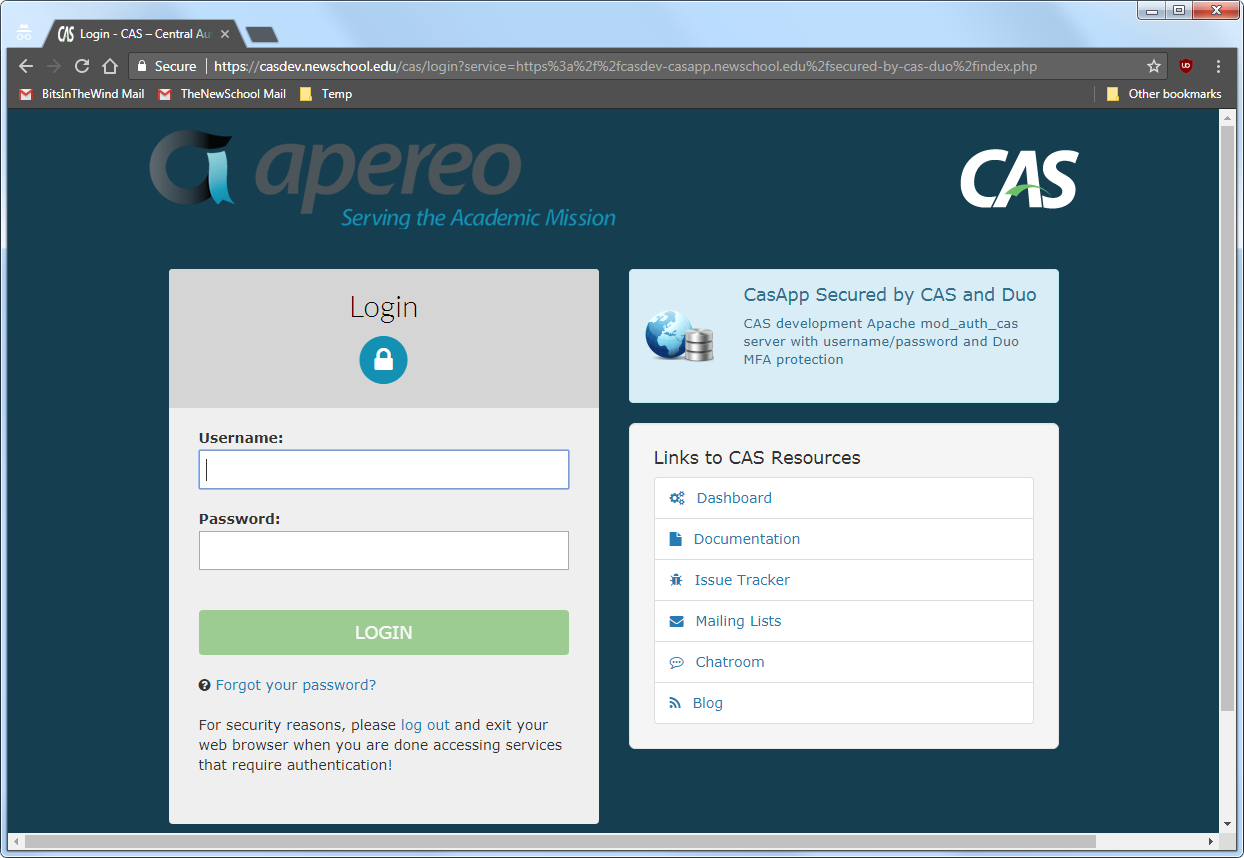
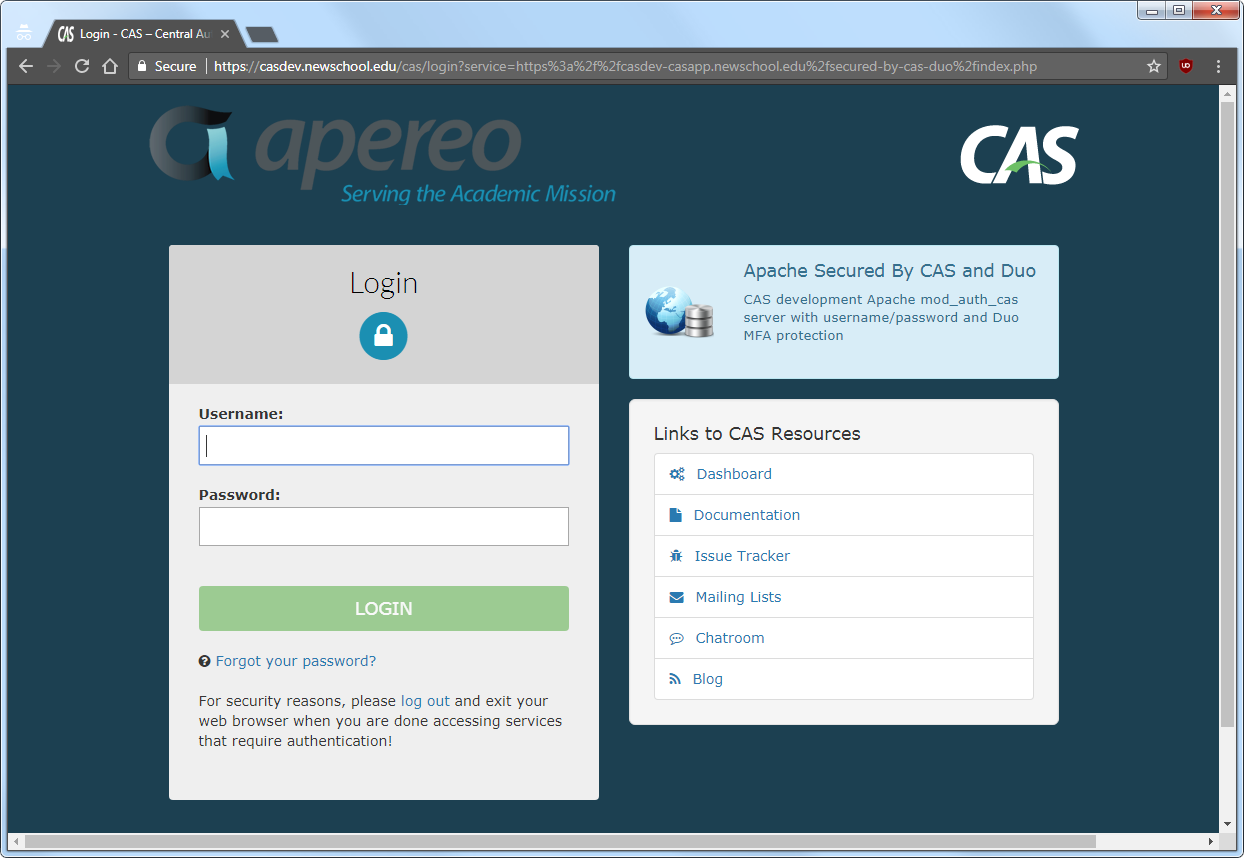
Updated to reflect using the recommended naming scheme for JSON service definition files.

Changed region(s): [[0.0, 0.0909, 1.0, 0.8788], [0.1222, 0.6667, 0.4887, 0.9697], [0.9775, 0.8182, 1.0, 0.8485]]

diff --git a/pages/building/server/ldap/resolution-release/update-the-service-registry.md b/pages/building/server/ldap/resolution-release/update-the-service-registry.md
@@ -1,6 +1,6 @@
 ---
 title: Update the service registry
-last_updated: September 1, 2017
+last_updated: September 26, 2017
 sidebar: main_sidebar
 permalink: building_server_ldap_resolution-release_update-the-service-registry.html
 summary:
@@ -39,14 +39,14 @@ The syntax for defining the above policies is defined in the CAS 5 *Attribute Re
 
 ## Create a service definition for the CAS client
 
-When we initially [created the service registry][building_server_service-registry_configure-the-service-registry], we created a wildcard service definition that would match any service. Now however, it makes sense to create a specific definition for our CAS client, and use that definition to release attributes to the client. Create a file called `casapp-cas-only.json` in the `etc/cas/services` directory on the master build server (***casdev-master***) with the following contents:
+When we initially [created the service registry][building_server_service-registry_configure-the-service-registry], we created a wildcard service definition that would match any service. Now however, it makes sense to create a specific definition for our CAS client, and use that definition to release attributes to the client. Create a file in the `etc/cas/services` directory on the master build server (***casdev-master***) with the following contents:
 
 ```json
 {
   "@class" : "org.apereo.cas.services.RegexRegisteredService",
   "serviceId" : "^https://casdev-casapp.newschool.edu/secured-by-cas(\\z|/.*)",
+  "name" : "Apache Secured By CAS",
   "id" : 201700830155400,
-  "name" : "CasApp Secured by CAS",
   "description" : "CAS development Apache mod_auth_cas server with username/password protection",
   "attributeReleasePolicy" : {
     "@class" : "org.apereo.cas.services.ReturnAllAttributeReleasePolicy"
@@ -54,6 +54,8 @@ When we initially [created the service registry][building_server_service-registr
   "evaluationOrder" : 1100
 }
 ```
+
+Following the naming convention introduced [earlier][building_server_service-registry_configure-the-service-registry], the name of this file should be `ApacheSecuredByCAS-201700830155400.json`. (Your `id`, and therefore that part of the filename, should use the current value for `YYYYMMDDhhmmss`.)
 
 This service definition uses a `serviceId` regular expression that matches only the URL for the `secured-by-cas` directory on the ***casdev-casapp*** server. The `(\\z|/.*)` syntax at the end matches either the empty string (`\\z`) or a slash ('/') followed by anything (`/.*`), meaning that the following will match:
 
@@ -81,6 +83,7 @@ And finally, this definition includes the "Release All" `attributeReleasePolicy`
 ## References
 
 * [CAS 5: Attribute Release Policies][casdoc-attrib-rel-pol]
+* [CAS 5: JSON Service Registry][casdoc-svc-reg-json]
 
 {% include reflinks.md %}
 {% include links.html %}

diff --git a/pages/building/server/mfa/update-the-service-registry.md b/pages/building/server/mfa/update-the-service-registry.md
@@ -1,6 +1,6 @@
 ---
 title: Update the service registry
-last_updated: September 1, 2017
+last_updated: September 26, 2017
 sidebar: main_sidebar
 permalink: building_server_mfa_update-the-service-registry.html
 summary:
@@ -10,17 +10,17 @@ Although it's possible to enable MFA across the board for all services by settin
 
 ## Create a second service definition for the CAS client
 
-Make a copy of `etc/cas/services/casapp-cas-only.json` in the `cas-overlay-template` directory on the master build server (***casdev-master***) and call it `casapp-cas-duo.json`:
+Make a copy of `etc/cas/services/ApacheSecuredByCAS-201700830155400.json` in the `cas-overlay-template` directory on the master build server (***casdev-master***) and call it `ApacheSecuredByCASandDuo-201700831132700.json` (replace `201700831132700` with the current `YYYYMMDDhhmmss` value):
 
 ```console
 casdev-master# cd /opt/workspace/cas-overlay-template
-casdev-master# cp -p etc/cas/services/casapp-cas-only.json etc/cas/services/casapp-cas-duo.json
+casdev-master# cp -p etc/cas/services/ApacheSecuredByCAS-201700830155400.json etc/cas/services/ApacheSecuredByCASandDuo-201700831132700.json
 ```
 
-Then edit `etc/cas/services/casapp-cas-duo.json` and do the following:
+Then edit `etc/cas/services/ApacheSecuredByCASandDuo-201700831132700.json` and do the following:
 
 1. Change the `serviceId` property to reflect the path to the secure area [created in the previous step][building_server_mfa_update-the-cas-client-config].
-2. Change the `id` property to a unique value.
+2. Change the `id` property to a unique value (make sure this value matches the one in the filename).
 3. Change the `description` property to include the Duo MFA requirement.
 4. Add the `multifactorPolicy` property as shown below.
 5. Change the `evaluationOrder` property to a different value.
@@ -31,17 +31,15 @@ When done, the file should look something like this:
 {
   "@class" : "org.apereo.cas.services.RegexRegisteredService",
   "serviceId" : "^https://casdev-casapp.newschool.edu/secured-by-cas-duo(\\z|/.*)",
+  "name" : "Apache Secured By CAS and Duo",
   "id" : 201700831132700,
-  "name" : "CasApp Secured by CAS and Duo",
   "description" : "CAS development Apache mod_auth_cas server with username/password and Duo MFA protection",
   "attributeReleasePolicy" : {
     "@class" : "org.apereo.cas.services.ReturnAllAttributeReleasePolicy"
   },
   "multifactorPolicy" : {
     "@class" : "org.apereo.cas.services.DefaultRegisteredServiceMultifactorPolicy",
-    "multifactorAuthenticationProviders" : [ "java.util.LinkedHashSet", [ "mfa-duo" ] ],
-    "bypassEnabled" : false,
-    "failureMode" : "CLOSED"
+    "multifactorAuthenticationProviders" : [ "java.util.LinkedHashSet", [ "mfa-duo" ] ]
   },
   "evaluationOrder" : 1200
 }

diff --git a/pages/building/server/service-registry/configure-the-service-registry.md b/pages/building/server/service-registry/configure-the-service-registry.md
@@ -1,6 +1,6 @@
 ---
 title: Configure the service registry
-last_updated: September 1, 2017
+last_updated: September 26, 2017
 sidebar: main_sidebar
 permalink: building_server_service-registry_configure-the-service-registry.html
 summary:
@@ -33,7 +33,7 @@ casdev-master# mkdir etc/cas/services
 
 ## Create a service definition file
 
-For simplicity (and to avoid worrying about the details of the service registry for the moment), create a "wildcard" service definition that will allow any HTTPS- or IMAPS-based service to make use of the CAS server. Create a file called `wildcard.json` in the `etc/cas/services` directory on the master build server with the following contents:
+For simplicity (and to avoid worrying about the details of the service registry for the moment), create a "wildcard" service definition that will allow any HTTPS- or IMAPS-based service to make use of the CAS server. Create a file in the `etc/cas/services` directory on the master build server with the following contents:
 
 ```json
 {
@@ -43,11 +43,19 @@ For simplicity (and to avoid worrying about the details of the service registry 
    */
   "@class" :            "org.apereo.cas.services.RegexRegisteredService",
   "serviceId" :         "^(https|imaps)://.*",
-  "name" :              "HTTPS/IMAPS wildcard",
+  "name" :              "HTTPS and IMAPS wildcard",
   "id" :                20170828090137,
   "evaluationOrder" :   99999
 }
 ```
+
+The CAS documentation recommends the following naming convention for JSON service definition files:
+
+```json
+JSON filename = serviceName + "-" + serviceNumericId + ".json"
+```
+
+Therefore, the filename for the wildcard service definition above should be `HTTPSandIMAPSwildcard-20170828090137.json`.
 
 The CAS server uses [Human JSON][human-json] (Hjson), which relaxes JSON's strict syntax rules and also allows for the use of comments, to make it easier to write JSON service definitions by hand. (Later, we will build the [service management webapp][building_svcmgmt_overview] to maintain these files for us). The use of Hjson format for writing service definitions is optional; traditional JSON syntax is also supported.
 
@@ -65,7 +73,7 @@ The complete list of service definition properties is provided in the *Service M
         </tr>
         <tr>
             <td markdown="span">`name`</td>
-            <td markdown="span">A name for the service.</td>
+            <td markdown="span">A name for the service. Note that because the service definition filename is created based on this name (see above), the value of this field should never contain [characters that are not allowed in filenames][invalid-filename-chars].</td>
         </tr>
         <tr>
             <td markdown="span">`id`</td>

diff --git a/pages/building/server/ldap/commit-changes-to-git.md b/pages/building/server/ldap/commit-changes-to-git.md
@@ -1,17 +1,17 @@
 ---
 title: Commit changes to Git
-last_updated: September 1, 2017
+last_updated: September 26, 2017
 sidebar: main_sidebar
 permalink: building_server_ldap_commit-changes-to-git.html
 summary:
 ---
 
-Before moving on to to the next phase of configuration, commit the changes made to `pom.xml` and `cas.properties`, as well as the new `etc/cas/services/casapp-cas-only.json` file, to Git to make them easier to keep track of (and to enable reverting to earlier configurations easier). Run the commands
+Before moving on to to the next phase of configuration, commit the changes made to `pom.xml` and `cas.properties`, as well as the new `etc/cas/services/ApacheSecuredByCAS-201700830155400.json` file, to Git to make them easier to keep track of (and to enable reverting to earlier configurations easier). Run the commands
 
 ```console
 casdev-master# cd /opt/workspace/cas-overlay-template
 casdev-master# git add etc/cas/config/cas.properties
-casdev-master# git add etc/cas/services/casapp-cas-only.json
+casdev-master# git add etc/cas/services/ApacheSecuredByCAS-201700830155400.json
 casdev-master# git add pom.xml
 casdev-master# git commit
 ```
@@ -32,6 +32,6 @@ Then save and exit the editor, and Git will finish its work:
 ```console
 [newschool-casdev 0cb7e85] Add LDAP support:  1. Add LDAP and SAML 1.1 modules to server  2. Configure Active Directory authentication  3. Configure Luminis LDAP authentication  4. Configure AD/LDAP attribute resolution  5. Create CasApp service definition
  3 files changed, 64 insertions(+)
- create mode 100644 etc/cas/services/casapp-cas-only.json
+ create mode 100644 etc/cas/services/ApacheSecuredByCAS-201700830155400.json
 casdev-master#  
 ```

diff --git a/pages/building/server/ldap/resolution-release/install-and-test-the-application.md b/pages/building/server/ldap/resolution-release/install-and-test-the-application.md
@@ -1,6 +1,6 @@
 ---
 title: Install and test the application
-last_updated: September 1, 2017
+last_updated: September 26, 2017
 sidebar: main_sidebar
 permalink: building_server_ldap_resolution-release_install-and-test-the-application.html
 summary:
@@ -67,7 +67,7 @@ Click on the "here" link to access the secure content, and you will be redirecte
 
 {% include image.html file="building/server/resolution-release/fig11-the-cas-login-page.png" alt="Browser Screen Shot" caption="Figure 11. The CAS login page" %}
 
-Note that the contents of the `name` field from the service registry are displayed at the top of the right-hand column; make sure that `CasApp Secured by CAS` is displayed here and not `HTTPS/IMAPS wildcard`. Enter a valid username and password (Active Directory or LDAP) and, upon successful authentication, the contents of `/var/www/html/secured-by-cas/index.php` will be displayed:
+Note that the contents of the `name` field from the service registry are displayed at the top of the right-hand column; make sure that `Apache Secured by CAS` is displayed here and not `HTTPS and IMAPS wildcard`. Enter a valid username and password (Active Directory or LDAP) and, upon successful authentication, the contents of `/var/www/html/secured-by-cas/index.php` will be displayed:
 
 {% include image.html file="building/server/resolution-release/fig12-the-secure-content.png" alt="Browser Screen Shot" caption="Figure 12. The \"secure\" content" %}
 

diff --git a/pages/building/server/mfa/install-and-test-the-application.md b/pages/building/server/mfa/install-and-test-the-application.md
@@ -1,6 +1,6 @@
 ---
 title: Install and test the application
-last_updated: September 1, 2017
+last_updated: September 26, 2017
 sidebar: main_sidebar
 permalink: building_server_mfa_install-and-test-the-application.html
 summary:
@@ -67,7 +67,7 @@ Click on the second "here" link to access the content secured by CAS and Duo, an
 
 {% include image.html file="building/server/mfa/fig14-the-cas-login-page.png" alt="Browser Screen Shot" caption="Figure 14. The CAS login page" %}
 
-Note that the contents of the `name` field from the service registry are displayed at the top of the right-hand column; make sure that `CasApp Secured by CAS and Duo` is displayed here. Enter a valid username and password (Active Directory or LDAP) that is also registered with Duo and, upon successful first-stage authentication, the Duo MFA authentication page will appear, as shown below:
+Note that the contents of the `name` field from the service registry are displayed at the top of the right-hand column; make sure that `Apache Secured by CAS and Duo` is displayed here. Enter a valid username and password (Active Directory or LDAP) that is also registered with Duo and, upon successful first-stage authentication, the Duo MFA authentication page will appear, as shown below:
 
 {% include image.html file="building/server/mfa/fig15-the-duo-authentication-page.png" alt="Browser Screen Shot" caption="Figure 15. The Duo authentication page" %}
 

diff --git a/pages/building/server/mfa/commit-changes-to-git.md b/pages/building/server/mfa/commit-changes-to-git.md
@@ -1,22 +1,22 @@
 ---
 title: Commit changes to Git
-last_updated: September 1, 2017
+last_updated: September 26, 2017
 sidebar: main_sidebar
 permalink: building_server_mfa_commit-changes-to-git.html
 summary:
 ---
 
-Before moving on to the next task, commit the changes made to `pom.xml` and `cas.properties`, as well as the new `etc/cas/services/casapp-cas-duo.json` file, to Git to make them easier to keep track of (and to enable reverting to earlier configurations easier). Run the commands
+Before moving on to the next task, commit the changes made to `pom.xml` and `cas.properties`, as well as the new `etc/cas/services/ApacheSecuredByCASandDuo-201700831132700.json` file, to Git to make them easier to keep track of (and to enable reverting to earlier configurations easier). Run the commands
 
 ```console
 casdev-master# cd /opt/workspace/cas-overlay-template
 casdev-master# git add etc/cas/config/cas.properties
-casdev-master# git add etc/cas/services/casapp-cas-duo.json
+casdev-master# git add etc/cas/services/ApacheSecuredByCASandDuo-201700831132700.json
 casdev-master# git add pom.xml
 casdev-master# git commit -m "Added Duo MFA support"
 [newschool-casdev 7a51280] Added Duo MFA support
  3 files changed, 38 insertions(+)
- create mode 100644 etc/cas/services/casapp-cas-duo.json
+ create mode 100644 etc/cas/services/ApacheSecuredByCASandDuo-201700831132700.json
 casdev-master#  
 ```
 

diff --git a/pages/building/server/service-registry/install-and-test-the-service-registry.md b/pages/building/server/service-registry/install-and-test-the-service-registry.md
@@ -1,6 +1,6 @@
 ---
 title: Install and test the service registry
-last_updated: September 1, 2017
+last_updated: September 26, 2017
 sidebar: main_sidebar
 permalink: building_server_service-registry_install-and-test-the-service-registry.html
 summary:
@@ -19,6 +19,8 @@ casdev-master# sh /opt/scripts/cassrv-install.sh
 Installation complete.
 casdev-master#  
 ```
+
+{% include note.html content="You may want to edit `cassrv-install.sh` and change the line that reads `rm -rf etc/cas/config` (around line 10) to read `rm -rf etc/cas/config etc/cas/services` instead, to ensure that repeated installations do not leave any old service definitions lying around." %}
 
 Review the contents of the log files (`/var/log/tomcat/catalina.yyyy-mm-dd.out` and `/var/log/cas/cas.log`) for errors.
 

diff --git a/_includes/reflinks.md b/_includes/reflinks.md
@@ -51,6 +51,8 @@
 [havege-project]:               https://www.irisa.fr/caps/projects/hipsor/index.php
 [human-json]:                   http://hjson.org/
 
+[invalid-filename-chars]:       https://en.wikipedia.org/wiki/Filename#Reserved_characters_and_words
+
 [java-regex-tutorial]:          http://docs.oracle.com/javase/tutorial/essential/regex/
 [json-web-key-gen]:             https://mkjwk.org/
 [json-web-key-gen-git]:         https://github.com/mitreid-connect/json-web-key-generator
